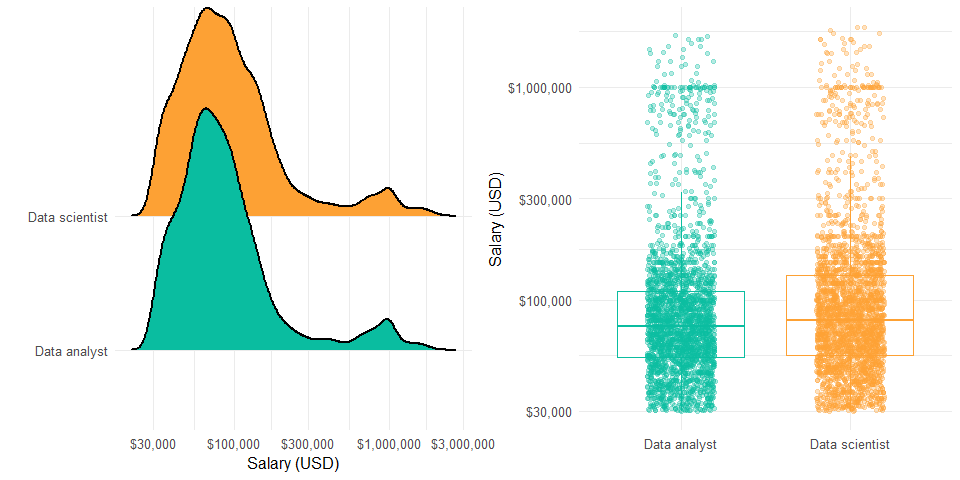
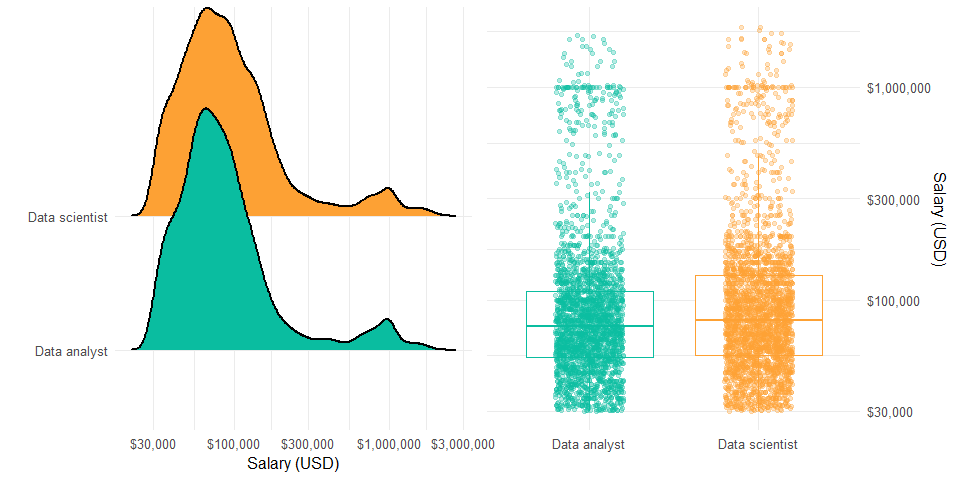
amend plot y-axis

Changed region(s): [[0.5, 0.0625, 1.0, 0.875], [0.5625, 0.9062, 0.9375, 0.9375]]

diff --git a/README.md b/README.md
@@ -4,11 +4,20 @@
 
 <br>
 
-In this project I’ll use data from StackOverflow’s 2019 Developer Survey
-to explore the characteristics of data analysts and data scientists.
+Data analysts and data scientists are in demand across industries.
+Usually the difference between these jobs is that data scientists use
+more machine learning and programming than analysts, but this boundary
+can sometimes become blurred. Here I’ll use the StackOverflow 2019
+Developer Survey to explore the characteristics of data analysts and
+data scientists, including **salary**, **contribution to open source**,
+and **coding as a hobby**.
+
+<br>
+
 This project was inspired by Julia Silge’s amazing analysis of [gender
 and salary in the tech
-industry](https://juliasilge.com/blog/salary-gender/).
+industry](https://juliasilge.com/blog/salary-gender/) which I highly
+recommend\!
 
 The pre-processing steps are executed in *prepare\_data.r*. To
 summarise, respondents are filtered as:
